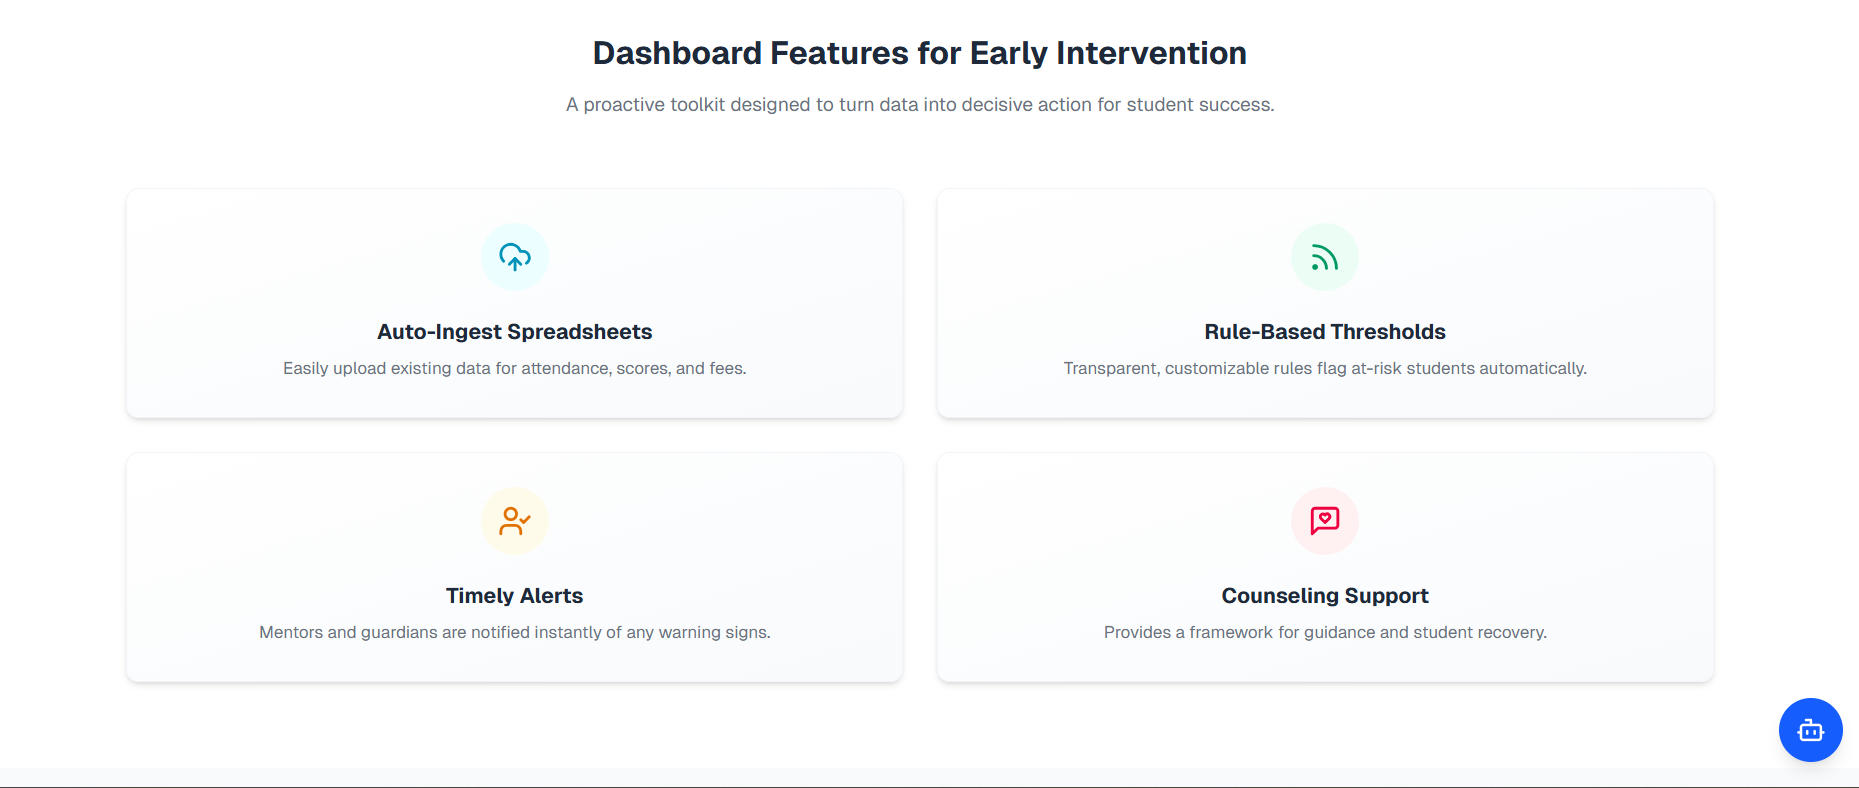
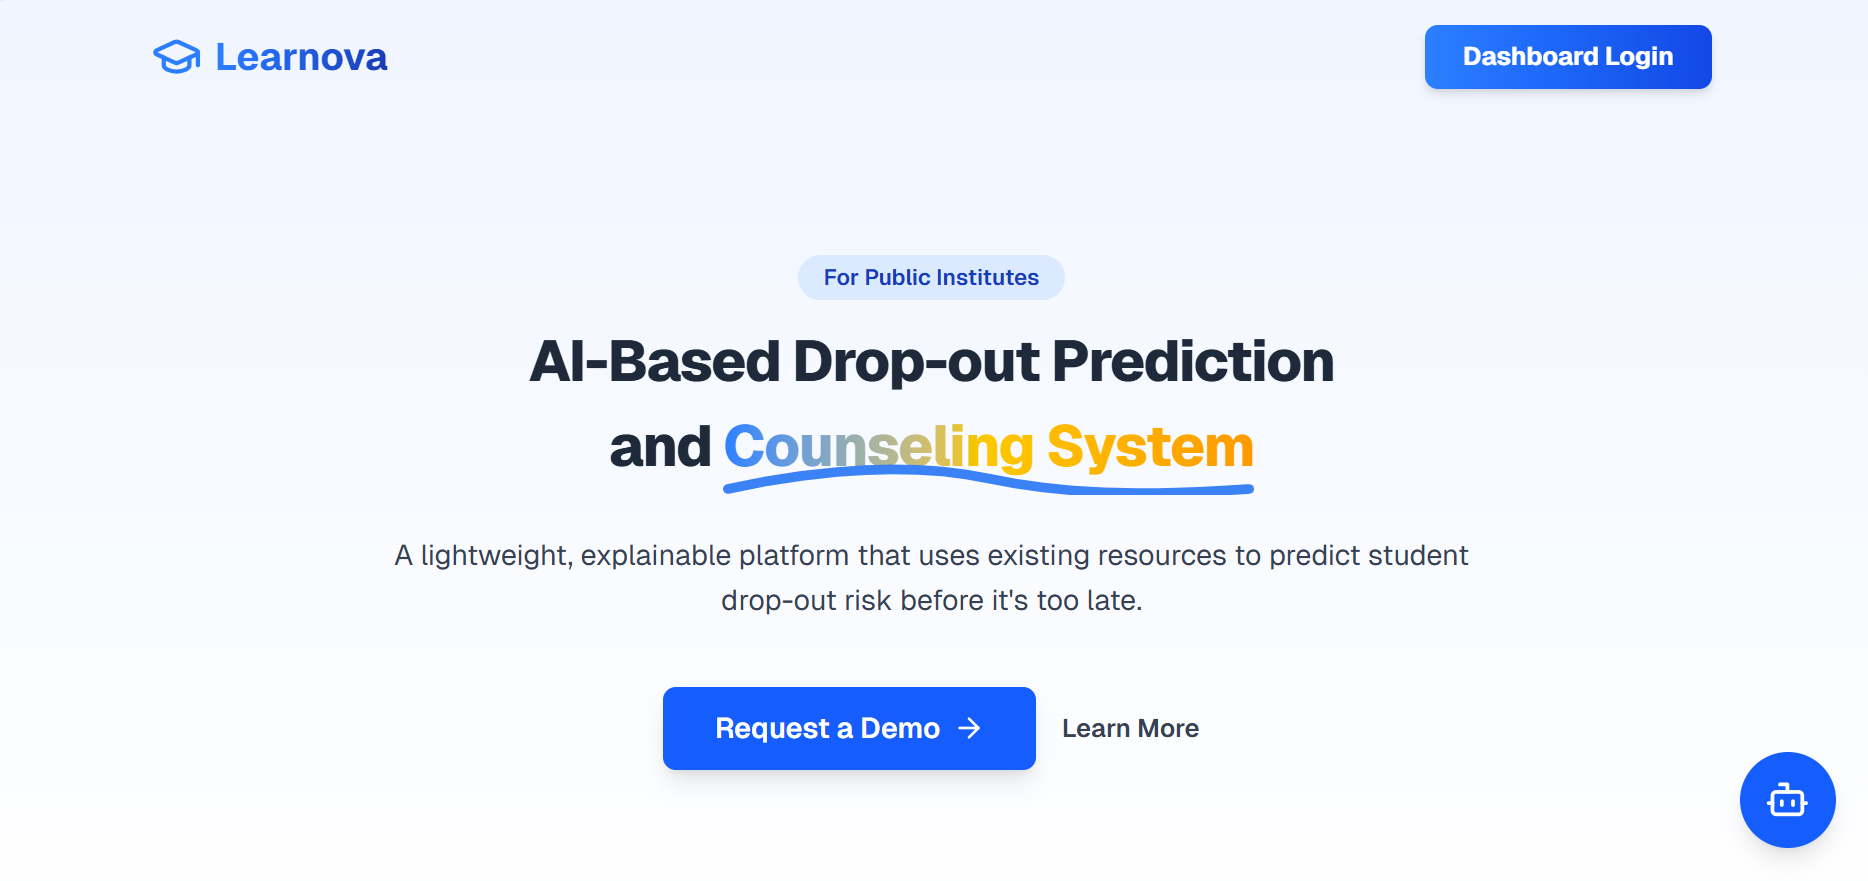
done

diff --git a/src/data.js b/src/data.js
@@ -2,14 +2,15 @@ import resume from "./assets/Anurima_resume.pdf"
 import image from "./assets/Photo.jpeg"
 import dermai from "./assets/DermAI.png"
 import mockint from "./assets/Mockterview.png"
+import learnova from "./assets/learnova.png"
 export const profile = {
   name: "Anurima Sarkar",
   role: "Full Stack Web Developer",
   subrole: "B.Tech CSE (IoT)",
   tagline:
-    "Building fast,responsive & production ready web applications using MERN stack & exploring AI integrations.",
+    "Building fast,responsive & production ready web applications using MERN stack, training models using Machine Learning & exploring AI integrations.",
   about:
-    "I am a B.Tech CSE (IoT) student passionate about Full Stack Web Development and building scalable, user-centric web applications. I enjoy developing responsive and interactive web solutions, integrating AI models into real-world applications, and exploring IoT-based systems that bridge hardware and software. Through hands-on projects, Data Structures & Algorithms, and continuous learning, I strive to strengthen my problem-solving skills while building modern, impactful technology solutions.",
+    "I am a B.Tech CSE (IoT) student passionate about Full Stack Web Development, Artificial Intelligence, and Machine Learning. I enjoy designing and developing responsive, user-centric web applications using modern frontend and backend technologies, while building a strong understanding of APIs, databases, and application development. Alongside full stack development, I am actively exploring AI/ML, including data preprocessing, model training, evaluation, and integrating trained models into real-world applications. I am particularly interested in combining web technologies with AI to build practical and intelligent solutions. Through hands-on projects, Data Structures & Algorithms, and continuous learning, I aim to strengthen my problem-solving skills and develop scalable applications that address real-world challenges.",
   email: "anutri2k05@gmail.com",
   location: "Kolkata, West Bengal, India",
   github: "https://github.com/Anurima2206",
@@ -38,6 +39,10 @@ export const techStack = [
   {
     category: "Tools",
     items: ["Git", "GitHub", "VS Code", "Postman"],
+  },
+  {
+    category: "Machine Learning",
+    items: ["NumPy", "Pandas", "Scikit-learn", "Data Preprocessing", "Feature Engineering", "Model Training", "Model Evaluation"],
   },
 ];
 
@@ -79,10 +84,29 @@ export const projects = [
     githubUrl: "https://github.com/Anurima2206/DermAI-Skin-Disease-Prediction-Website.git",
     featured: true,
   },
+  {
+    id: "dropout",
+    title: "Learnova",
+    subtitle: "Student Dropout Prediction Website",
+    description:
+      "A student-focused platform designed to identify students at risk of dropping out using academic and engagement data, supported by an early intervention dashboard for timely monitoring and counseling.",
+      features: [
+  "Machine learning models using Logistic Regression and Random Forest to predict student dropout from 35 input features (~78% accuracy)",
+    "Early intervention dashboard for monitoring attendance, scores, fees, and identifying at-risk students",
+    "Automated rule-based thresholds and timely alerts to support proactive intervention",
+    "Counseling support and student engagement features with data anonymization for privacy",
+],
+    tech: ["Python", "Scikit-learn", "Pandas", "NumPy","Next.js"],
+    image: learnova,
+    liveUrl: "https://sih-sih-co98.vercel.app/",
+    githubUrl: "https://github.com/byteforge101/sih.git",
+    featured: true,
+  },
 ];
 
 export const skillHighlights = [
   "Responsive Web Design",
+  "Dataset training by machine learning",
   "REST API Integration",
   "Authentication (JWT)",
   "MongoDB CRUD Operations",
